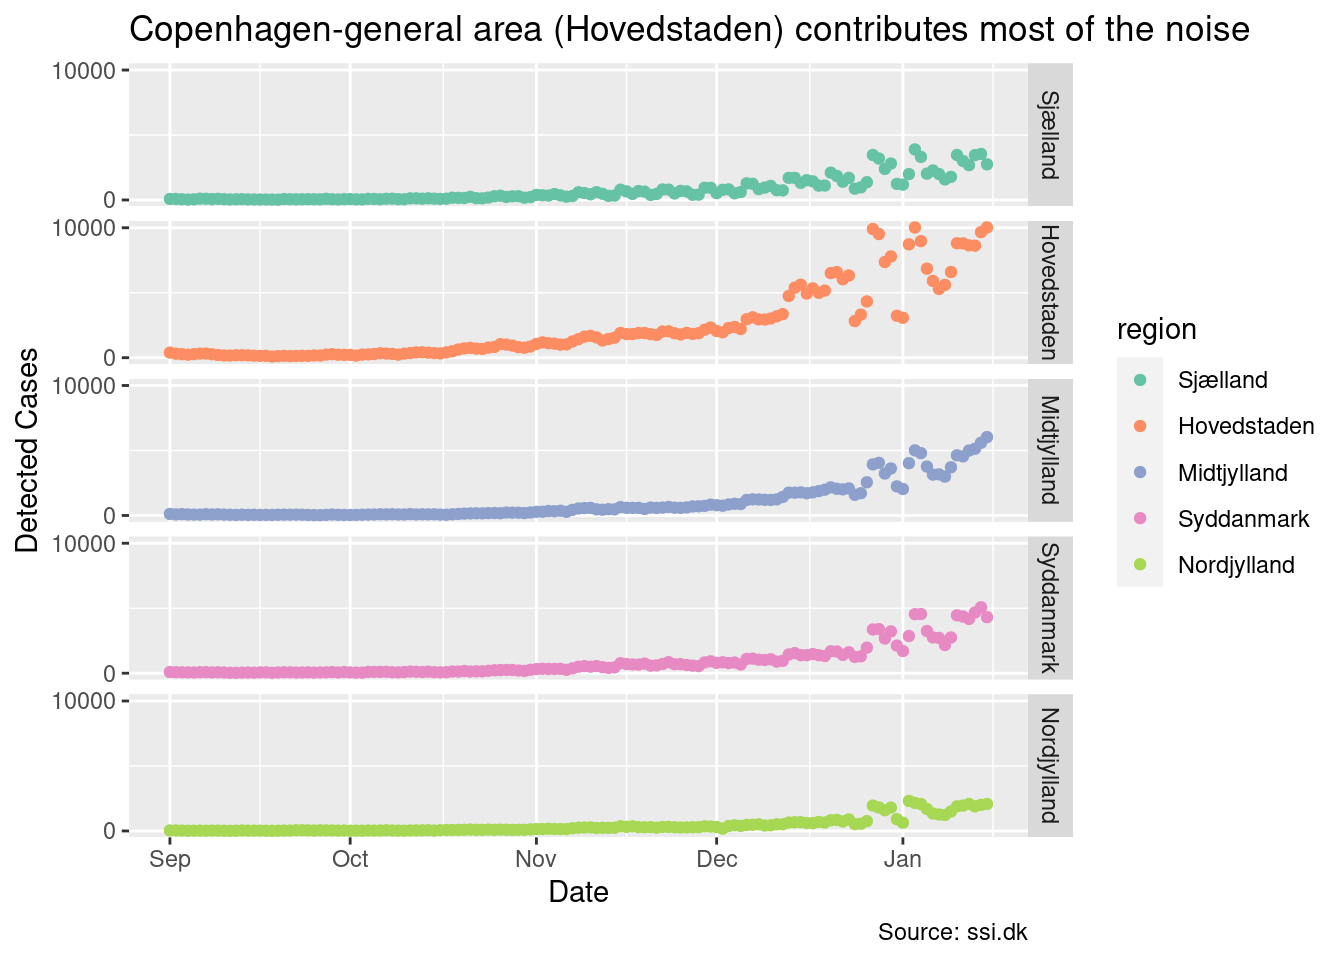
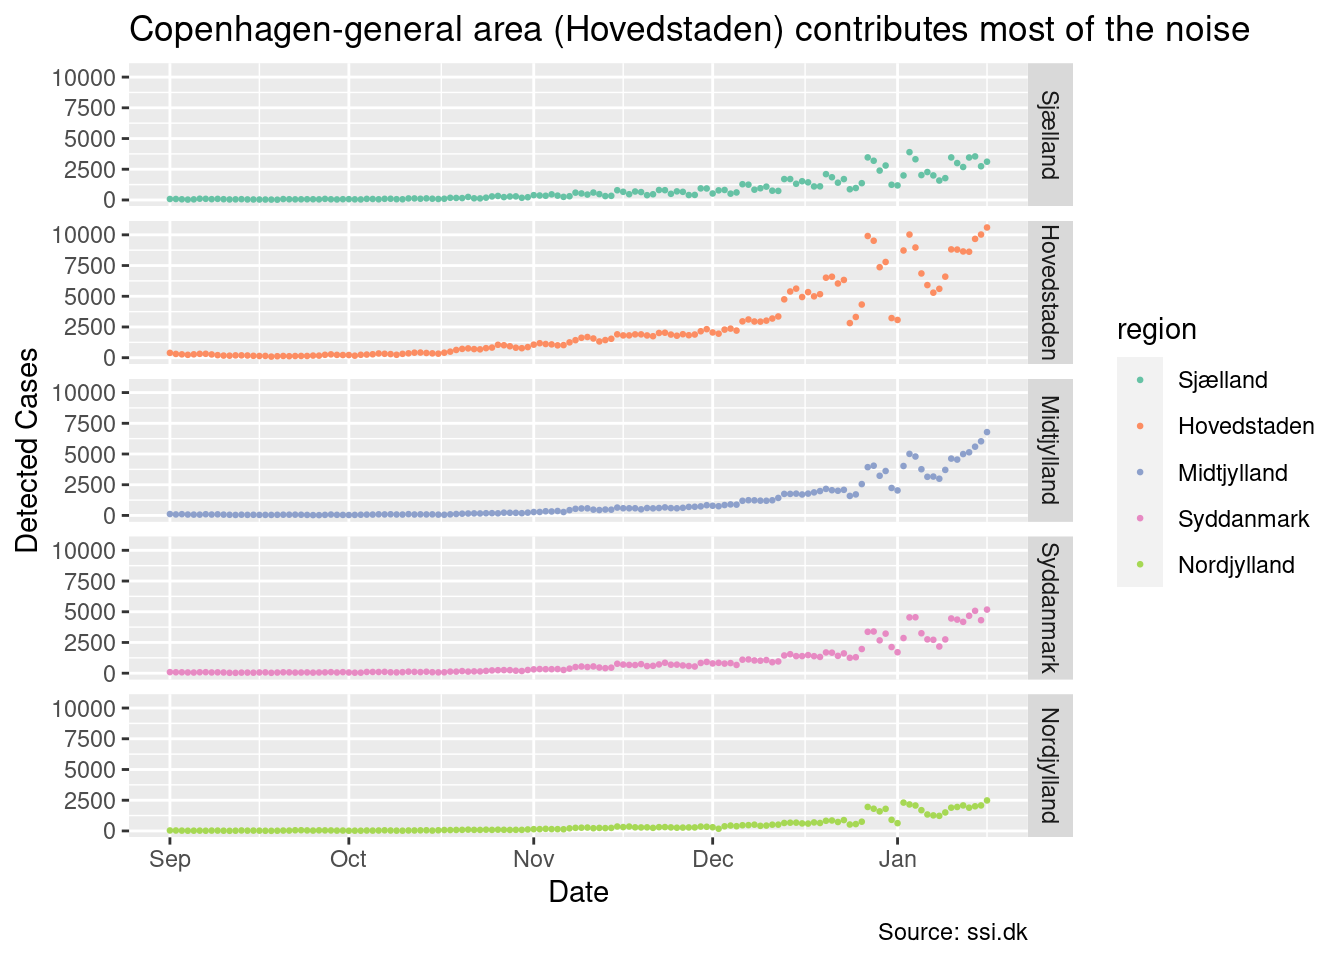
2022-01-19

diff --git a/docs/index.html b/docs/index.html
@@ -10,7 +10,7 @@
 
 
 
-<meta name="date" content="2022-01-18" />
+<meta name="date" content="2022-01-19" />
 
 <title>Covid-19 Stats for Denmark</title>
 
@@ -258,7 +258,7 @@ $(document).ready(function () {
 
 
 <h1 class="title toc-ignore">Covid-19 Stats for Denmark</h1>
-<h4 class="date">2022-01-18</h4>
+<h4 class="date">2022-01-19</h4>
 
 </div>
 
@@ -302,7 +302,7 @@ $(document).ready(function () {
 <pre class="r"><code>library(tidyverse)
 library(lubridate)</code></pre>
 <p>SSI’s data is in a zip file. We unpack this zip file into a directory of the general form <code>YYYY-MM-DD</code>. Lets set up a name for the current directory we want to grab data from</p>
-<pre class="r"><code>date &lt;- &quot;2022-01-18&quot;</code></pre>
+<pre class="r"><code>date &lt;- &quot;2022-01-19&quot;</code></pre>
 </div>
 <div id="ingesting-data" class="section level2">
 <h2>Ingesting data</h2>
@@ -344,7 +344,7 @@ library(lubridate)</code></pre>
                                       ))</code></pre>
 <pre><code>## ℹ Using &quot;&#39;,&#39;&quot; as decimal and &quot;&#39;.&#39;&quot; as grouping mark. Use `read_delim()` for more control.</code></pre>
 <pre class="r"><code>data</code></pre>
-<pre><code>## # A tibble: 6,563 × 9
+<pre><code>## # A tibble: 6,575 × 9
 ##    Region      Prøvetagningsdato Køn   `Bekræftede tilfælde`  Døde Indlæggelser
 ##    &lt;fct&gt;       &lt;date&gt;            &lt;fct&gt;                 &lt;dbl&gt; &lt;dbl&gt;        &lt;dbl&gt;
 ##  1 Sjælland    2020-02-26        M                         1     0            0
@@ -357,7 +357,7 @@ library(lubridate)</code></pre>
 ##  8 Hovedstaden 2020-03-03        F                         1     0            0
 ##  9 Hovedstaden 2020-03-03        M                         3     0            1
 ## 10 Hovedstaden 2020-03-04        M                         2     0            0
-## # … with 6,553 more rows, and 3 more variables: Kummuleret antal døde &lt;dbl&gt;,
+## # … with 6,565 more rows, and 3 more variables: Kummuleret antal døde &lt;dbl&gt;,
 ## #   Kummuleret antal bekræftede tilfælde &lt;dbl&gt;,
 ## #   Kummuleret antal indlæggelser &lt;dbl&gt;</code></pre>
 <p>We certainly don’t want to work with danish-named columns. Rather, we want small descriptive names which are easy to type. We send our dataset through a <code>rename</code> pass for this.</p>
@@ -372,7 +372,7 @@ library(lubridate)</code></pre>
 # Cut the cumulative columns away
 data &lt;- data %&gt;% select(region, date, gender, cases, deaths, hospitalizations)
 data</code></pre>
-<pre><code>## # A tibble: 6,563 × 6
+<pre><code>## # A tibble: 6,575 × 6
 ##    region      date       gender cases deaths hospitalizations
 ##    &lt;fct&gt;       &lt;date&gt;     &lt;fct&gt;  &lt;dbl&gt;  &lt;dbl&gt;            &lt;dbl&gt;
 ##  1 Sjælland    2020-02-26 M          1      0                0
@@ -385,7 +385,7 @@ data</code></pre>
 ##  8 Hovedstaden 2020-03-03 F          1      0                0
 ##  9 Hovedstaden 2020-03-03 M          3      0                1
 ## 10 Hovedstaden 2020-03-04 M          2      0                0
-## # … with 6,553 more rows</code></pre>
+## # … with 6,565 more rows</code></pre>
 <p>Provide a low cut-off. We are interested in the recent period with Omicron, rather than the full duration of Covid-19.</p>
 <pre class="r"><code>lo_cutoff &lt;- &#39;2021-09-01&#39;</code></pre>
 <p>The high end of that cutoff, we set to two days before the maximal date in our data set</p>
@@ -399,7 +399,7 @@ data</code></pre>
 # Put this into the summary
 summary &lt;- data
 summary</code></pre>
-<pre><code>## # A tibble: 1,370 × 6
+<pre><code>## # A tibble: 1,380 × 6
 ##    region      date       gender cases deaths hospitalizations
 ##    &lt;fct&gt;       &lt;date&gt;     &lt;fct&gt;  &lt;dbl&gt;  &lt;dbl&gt;            &lt;dbl&gt;
 ##  1 Hovedstaden 2021-09-01 F        210      0                7
@@ -412,7 +412,7 @@ summary</code></pre>
 ##  8 Nordjylland 2021-09-01 M         16      1                2
 ##  9 Sjælland    2021-09-01 M         37      0                3
 ## 10 Syddanmark  2021-09-01 M         41      0                1
-## # … with 1,360 more rows</code></pre>
+## # … with 1,370 more rows</code></pre>
 </div>
 <div id="weekly-key-figures-split-by-age" class="section level3">
 <h3>Weekly key figures split by age</h3>
@@ -496,15 +496,15 @@ data</code></pre>
 ##     lau1 name            `Bekræftede tilf… Incidens `Bekræftede tilfæ… incidence
 ##    &lt;dbl&gt; &lt;fct&gt;                       &lt;dbl&gt;    &lt;dbl&gt;              &lt;dbl&gt;     &lt;dbl&gt;
 ##  1   411 &quot;&quot;                              0       NA                  0         0
-##  2   101 &quot;København&quot;                195895    30548              22681      3537
-##  3   147 &quot;Frederiksberg&quot;             29138    28237               3388      3283
-##  4   151 &quot;Ballerup&quot;                  13226    26891               1868      3798
-##  5   153 &quot;Brøndby&quot;                   11377    31924               1529      4290
-##  6   155 &quot;Dragør&quot;                     3897    26677                551      3772
-##  7   157 &quot;Gentofte&quot;                  19510    26391               2657      3594
-##  8   159 &quot;Gladsaxe&quot;                  19050    27550               2544      3679
-##  9   161 &quot;Glostrup&quot;                   6871    29341                996      4253
-## 10   163 &quot;Herlev&quot;                     8864    30797               1017      3533
+##  2   101 &quot;København&quot;                199797    31157              24138      3764
+##  3   147 &quot;Frederiksberg&quot;             29731    28812               3607      3495
+##  4   151 &quot;Ballerup&quot;                  13593    27638               2034      4136
+##  5   153 &quot;Brøndby&quot;                   11559    32434               1642      4607
+##  6   155 &quot;Dragør&quot;                     3970    27177                583      3991
+##  7   157 &quot;Gentofte&quot;                  20106    27197               2808      3798
+##  8   159 &quot;Gladsaxe&quot;                  19646    28412               2765      3999
+##  9   161 &quot;Glostrup&quot;                   6997    29879               1022      4364
+## 10   163 &quot;Herlev&quot;                     9068    31506               1137      3950
 ## # … with 89 more rows, and 5 more variables: Antal testede personer &lt;dbl&gt;,
 ## #   Testestede pr. 100.000 &lt;dbl&gt;, Testede de seneste 7 dage &lt;dbl&gt;,
 ## #   Testede pr. 100.000 de seneste 7 dage &lt;dbl&gt;, Antal borgere &lt;dbl&gt;</code></pre>
@@ -549,7 +549,7 @@ plot_country(p, &quot;Trendline for Covid-19: new hospitalizations in Denmark&qu
 <pre><code>## `geom_smooth()` using formula &#39;y ~ x&#39;</code></pre>
 <p><img src="index_files/figure-html/country-hospitalizations-1.png" width="672" /></p>
 <p>And likewise for deaths. Since deaths tend to have a larger lag before reporting, we don’t report the last 6 days</p>
-<pre class="r"><code>hi_cutoff_deaths &lt;- max(country$date) - days(5)
+<pre class="r"><code>hi_cutoff_deaths &lt;- max(country$date) - days(6)
 p &lt;- ggplot(country %&gt;% filter(date &lt; hi_cutoff_deaths), aes(x=date, y=deaths))
 plot_country(p, &quot;Trendline for Covid-19: new deaths in Denmark&quot;, &quot;Source: ssi.dk&quot;)</code></pre>
 <pre><code>## `geom_smooth()` using formula &#39;y ~ x&#39;</code></pre>
@@ -603,10 +603,9 @@ plot_day_of_week(p, &quot;Some days of the week has clear over/under-representat
 <h3>Regional visualizations</h3>
 <p>To visualize the regional data, we use a facet grid, splitting on region. As we see, there are a lot of noise data generated by “Hovedstaden” (corresponding to the general area around Copenhagen). This region is generating most cases, by far.</p>
 <pre class="r"><code>plot_regions &lt;- function(p, title, caption) {
-    p + geom_point(aes(color=region)) +
+    p + geom_point(aes(color=region), size=.5) +
         facet_grid(rows=vars(region)) +
         scale_colour_brewer(palette=&quot;Set2&quot;) +
-        scale_y_continuous(breaks = c(0, 10000)) +
         labs(title = title,
              caption = caption,
              x = &quot;Date&quot;,
@@ -633,10 +632,10 @@ plot_regions(p, &quot;Copenhagen-general area (Hovedstaden) contributes most of 
         labs(title = title, caption = caption, x=&quot;Week&quot;, y = &quot;Age Group&quot;)
 }</code></pre>
 <pre class="r"><code>p &lt;- ggplot(weekly, aes(x=week, y=ageGroup, fill=cases_100k, height=0.8))
-plot_age_cases(p, &quot;Schools were closed on 15th Dec 2021, cases dropped&quot;, &quot;Source: ssi.dk&quot;)</code></pre>
+plot_age_cases(p, &quot;Schools were closed on 15th Dec 2021, reopened in Jan 2022&quot;, &quot;Source: ssi.dk&quot;)</code></pre>
 <p><img src="index_files/figure-html/age-group-cases-1.png" width="672" /></p>
 <pre class="r"><code>p &lt;- ggplot(weekly, aes(x=week, y=ageGroup, fill=tested_100k, height=0.8))
-plot_age_cases(p, &quot;Schools were closed on 15th Dec 2021, tests dropped&quot;, &quot;Source: ssi.dk&quot;)</code></pre>
+plot_age_cases(p, &quot;Schools were closed on 15th Dec 2021, reopened in Jan 2022&quot;, &quot;Source: ssi.dk&quot;)</code></pre>
 <p><img src="index_files/figure-html/age-group-tests-1.png" width="672" /></p>
 </div>
 </div>
@@ -649,7 +648,7 @@ muncipalities$incidence_type &lt;- ifelse(muncipalities$incidence_z &lt; 0, &quo
 <pre class="r"><code>ggplot(muncipalities %&gt;% mutate(name = fct_reorder(name, incidence_z)), aes(x=name, y=incidence)) +
   geom_bar(stat=&#39;identity&#39;, aes(fill=incidence_type), width=.5)  +
   scale_colour_brewer(palette=&quot;Set2&quot;) +
-  geom_hline(yintercept=mean(muncipalities$incidence), linetype=2, color=&quot;gray&quot;) +
+  geom_hline(yintercept=mean(muncipalities$incidence), linetype=2) +
   labs(subtitle=&quot;Incidence&quot;,
        title= &quot;Diverging Bars&quot;,
        fill = &quot;Incidence&quot;,
